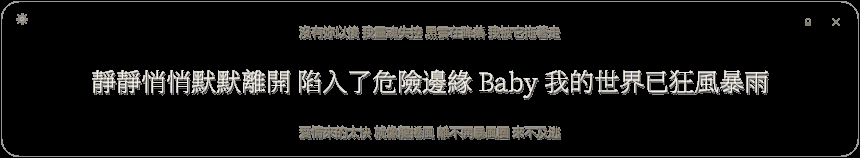
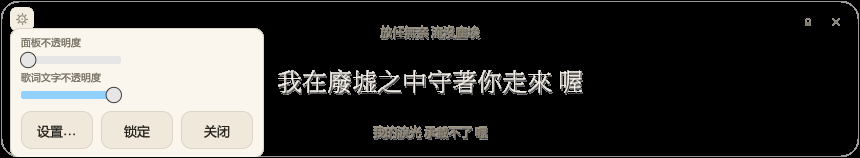
fix: open the lyric strip controls from a right click so lock, settings and close are reachable

diff --git a/src/overlay.rs b/src/overlay.rs
@@ -400,6 +400,11 @@ pub fn show_lyrics(
                     Id::new("lyrics-drag"),
                     Sense::click_and_drag(),
                 );
+                // The strip is too short to host a popup of its own: egui would
+                // place a context menu below the pointer, outside the window, and
+                // clip it away. Right clicks therefore open the same controls
+                // panel the gear button toggles (lock / settings / close).
+                let right_clicked = drag.secondary_clicked() || crate::platform::take_lyrics_menu_request();
                 if drag.double_clicked() && locked {
                     if let Ok(mut queue) = commands.lock() {
                         queue.push(OverlayCommand::SetLyricsLocked(false));
@@ -470,7 +475,7 @@ pub fn show_lyrics(
                 let was_open = ctx
                     .data(|data| data.get_temp::<bool>(controls_id))
                     .unwrap_or(false);
-                let mut controls_open = was_open && !locked;
+                let mut controls_open = (was_open || right_clicked) && !locked;
                 let button_rect = if locked {
                     Rect::NOTHING
                 } else {
@@ -573,17 +578,35 @@ pub fn show_lyrics(
                                         });
                                     }
                                     ui.add_space(4.0);
-                                    if widgets::secondary_button(ui, "打开桌面歌词设置").clicked() {
-                                        if let Ok(mut queue) = commands.lock() {
-                                            queue.push(OverlayCommand::OpenLyricsSettings);
+                                    // One compact row: the strip is only 158 px
+                                    // tall, so three stacked buttons would push the
+                                    // last one outside the window and clip it.
+                                    ui.horizontal(|ui| {
+                                        if widgets::secondary_button(ui, "设置…").clicked() {
+                                            if let Ok(mut queue) = commands.lock() {
+                                                queue.push(OverlayCommand::OpenLyricsSettings);
+                                            }
+                                            controls_open = false;
                                         }
-                                        controls_open = false;
-                                    }
+                                        let lock_label = if locked { "解锁" } else { "锁定" };
+                                        if widgets::secondary_button(ui, lock_label).clicked() {
+                                            if let Ok(mut queue) = commands.lock() {
+                                                queue.push(OverlayCommand::SetLyricsLocked(!locked));
+                                            }
+                                            controls_open = false;
+                                        }
+                                        if widgets::secondary_button(ui, "关闭").clicked() {
+                                            if let Ok(mut queue) = commands.lock() {
+                                                queue.push(OverlayCommand::CloseLyrics);
+                                            }
+                                            controls_open = false;
+                                        }
+                                    });
                                 });
                         });
                     popup_rect = area.response.rect;
                 }
-                if controls_open && !button.clicked() {
+                if controls_open && was_open && !right_clicked && !button.clicked() {
                     let clicked_outside = ctx.input(|input| {
                         input.pointer.any_click()
                             && input.pointer.latest_pos().is_some_and(|position| {

diff --git a/src/platform.rs b/src/platform.rs
@@ -216,6 +216,16 @@ pub fn set_lyrics_locked(locked: bool) {
 pub fn lyrics_locked() -> bool {
     LYRICS_LOCKED.load(std::sync::atomic::Ordering::Relaxed)
 }
+
+/// Right clicks on the lyric strip are captured by the native window proc: the
+/// overlay's layered, non-activating window does not hand the secondary button
+/// to egui, so the strip's own menu never opened. The proc raises this flag and
+/// `show_lyrics` consumes it to open the controls panel.
+static LYRICS_MENU: std::sync::atomic::AtomicBool = std::sync::atomic::AtomicBool::new(false);
+
+pub fn take_lyrics_menu_request() -> bool {
+    LYRICS_MENU.swap(false, std::sync::atomic::Ordering::Relaxed)
+}
 pub fn set_taskbar_button_visible(visible: bool) -> bool {
     use winapi::um::winuser::{
         GetWindowLongPtrW, SetWindowLongPtrW, SetWindowPos, GWL_EXSTYLE, SWP_FRAMECHANGED,
@@ -1113,6 +1123,7 @@ unsafe extern "system" fn lyrics_native_proc(
         fn ScreenToClient(hwnd: isize, point: *mut PointI) -> i32;
         fn ClientToScreen(hwnd: isize, point: *mut PointI) -> i32;
         fn CallWindowProcW(prev: isize, hwnd: isize, msg: u32, wp: usize, lp: isize) -> isize;
+        fn GetKeyState(vk: i32) -> i16;
         fn DefWindowProcW(hwnd: isize, msg: u32, wp: usize, lp: isize) -> isize;
     }
     #[repr(C)]
@@ -1175,6 +1186,13 @@ unsafe extern "system" fn lyrics_native_proc(
             // own caption drag; egui keeps the double-click-to-unlock path.
             return 1;
         }
+        // Right clicks have to reach egui: the strip's context menu (lock,
+        // settings) lives in the client area. Reporting HTCAPTION turned the
+        // whole capsule into non-client space, so WM_NCRBUTTONUP went to the
+        // system and the menu never opened.
+        if unsafe { GetKeyState(0x02) } < 0 {
+            return 1; // VK_RBUTTON down → client area, egui opens the menu.
+        }
         return 2; // HTCAPTION: drag the lyric strip.
     }
     // The lyric strip is a non-activating overlay, but Windows still treats it
@@ -1183,6 +1201,12 @@ unsafe extern "system" fn lyrics_native_proc(
     // re-activating the player instead of starting a drag (v2.1.0 issue #2).
     if msg == 0x0021 {
         return 3; // MA_NOACTIVATE
+    }
+    if msg == 0x0205 {
+        // WM_RBUTTONUP on the strip: open the overlay's controls panel. The
+        // secondary button never reaches egui on this layered window.
+        LYRICS_MENU.store(true, Ordering::Relaxed);
+        return 0;
     }
     if msg == 0x0006 {
         // WM_ACTIVATE: if something still activated us, hand the foreground

diff --git a/src/platform/dcomp_panel.rs b/src/platform/dcomp_panel.rs
@@ -29,7 +29,7 @@ use windows::Win32::Graphics::Dwm::{
 };
 use windows::Win32::Graphics::Dxgi::{IDXGIDevice, IDXGISurface};
 use windows::Win32::System::LibraryLoader::GetModuleHandleW;
-use windows::Win32::UI::Input::KeyboardAndMouse::{GetCapture, ReleaseCapture, SetCapture};
+use windows::Win32::UI::Input::KeyboardAndMouse::{GetCapture, GetKeyState, ReleaseCapture, SetCapture};
 use windows::Win32::UI::WindowsAndMessaging::{
     CreateWindowExW, DefWindowProcW, FindWindowW, GetClientRect, GetCursorPos, GetWindowRect, PostMessageW, RegisterClassW, SendMessageW, SetWindowPos, ShowWindow, HCURSOR, HICON,
     SWP_NOACTIVATE, SWP_SHOWWINDOW, SW_SHOWNOACTIVATE, WM_ERASEBKGND, WNDCLASSW, WNDPROC,
@@ -115,6 +115,12 @@ unsafe extern "system" fn panel_proc(
         // swallows clicks aimed at the window underneath.
         let mut rect = windows::Win32::Foundation::RECT::default();
         let _ = unsafe { GetClientRect(hwnd, &mut rect) };
+        // Right clicks belong to the lyric window below: the panel owns no menu
+        // and reports HTCLIENT for the capsule, which swallowed the right button
+        // before egui ever saw it (v2.1.2 overlay context menu).
+        if unsafe { GetKeyState(0x02) } < 0 {
+            return LRESULT(-1); // HTTRANSPARENT: let the lyric window decide.
+        }
         return LRESULT(match unsafe { capsule_hit(hwnd, rect) } {
             true => 1,   // HTCLIENT
             false => -1, // HTTRANSPARENT
